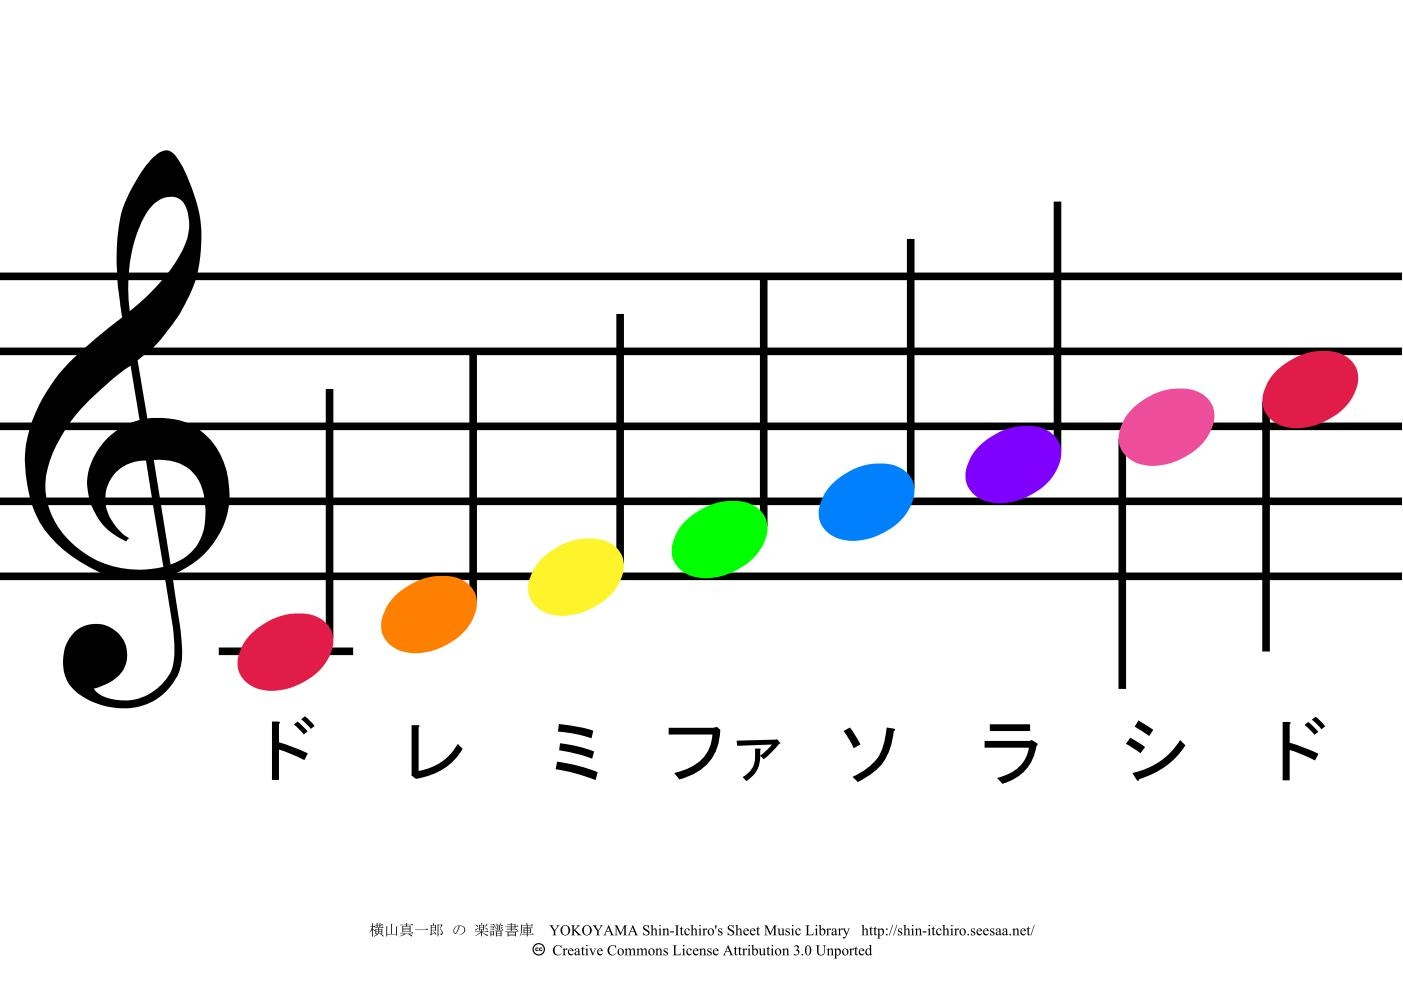
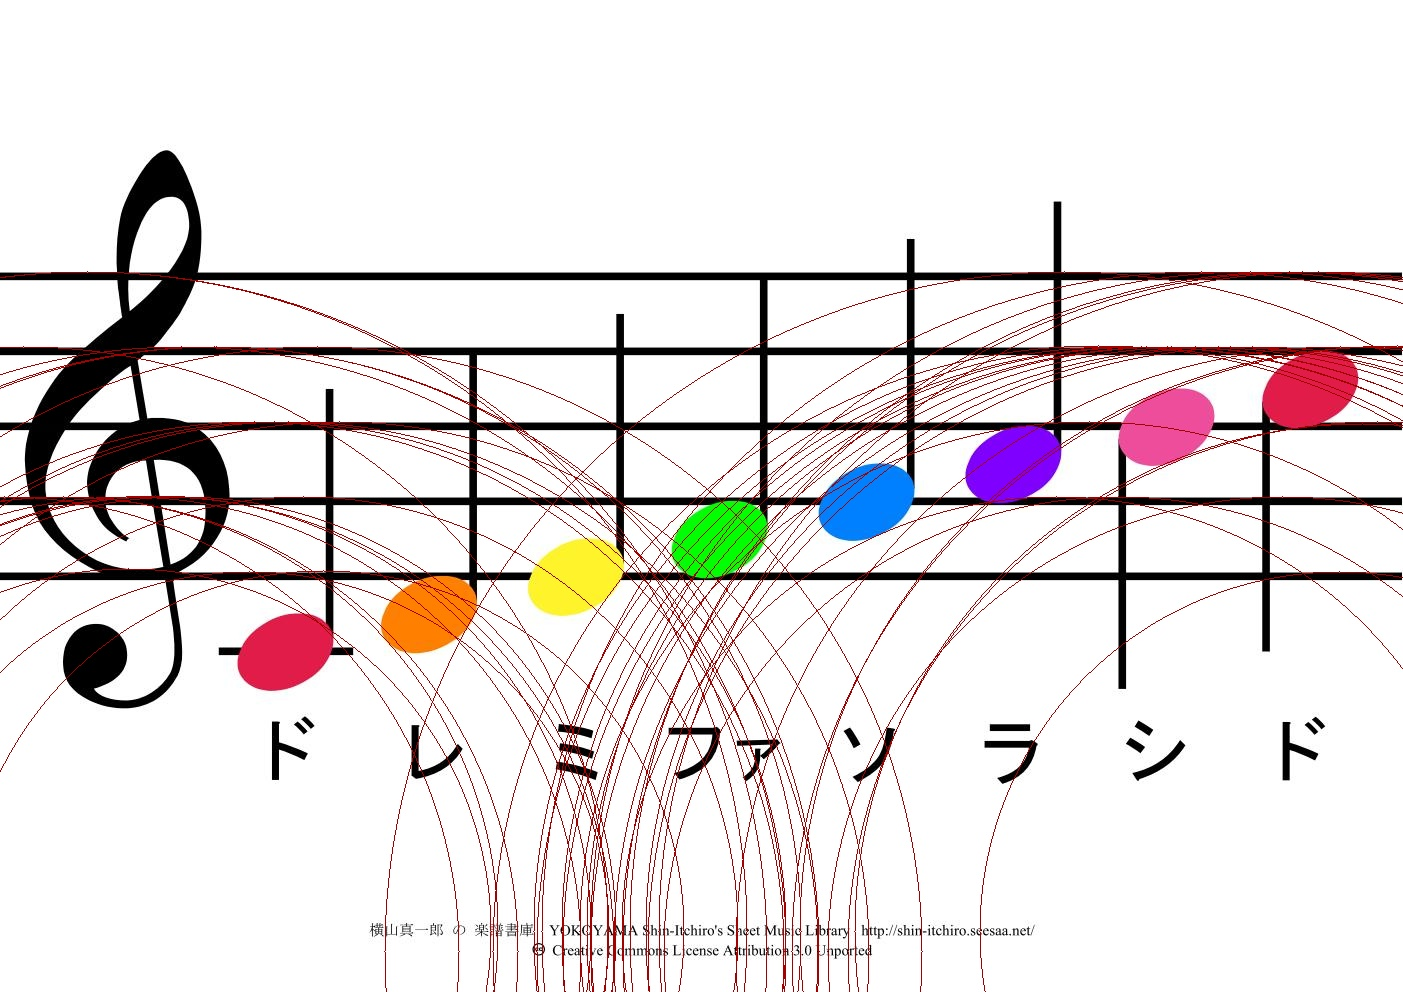
[add] detect circles.

diff --git a/assets/Handlers.py b/assets/Handlers.py
@@ -2,7 +2,6 @@ import cv2
 
 WINDOW_NAME_INPUT = "input"
 WINDOW_NAME_OUTPUT = "output"
-WINDOW_NAME_DEBUG = "debug"
 
 
 class FileHandler:
@@ -24,10 +23,57 @@ class FileHandler:
 
 
 class ManipulateImage:
-    def calc_img_size(src_img):
+    def edge_detection(src_img):
+
+        # image size calculation
         height, width, channels = src_img.shape
         img_size = height * width
         print(img_size)
 
+        # grayscale conversion
         gray_img = cv2.cvtColor(src_img, cv2.COLOR_RGB2GRAY)
-        FileHandler.output_image(WINDOW_NAME_DEBUG, gray_img)
+        # FileHandler.output_image(WINDOW_NAME_DEBUG, gray_img)
+
+        retval, dst = cv2.threshold(gray_img, 190, 255, cv2.THRESH_TOZERO_INV)
+        dst = cv2.bitwise_not(dst)
+        retval, dst = cv2.threshold(dst, 0, 255, cv2.THRESH_BINARY | cv2.THRESH_OTSU)
+        ManipulateImage.circle_detection(src_img, dst)
+
+        # 輪郭抽出
+        cnt, hierarchy = cv2.findContours(dst, cv2.RETR_TREE, cv2.CHAIN_APPROX_SIMPLE)
+        FileHandler.output_image("detect counter", dst)
+
+        # 抽出領域出力
+        dst = cv2.drawContours(dst, cnt, -1, (255, 255, 255, 255), 2, cv2.LINE_AA)
+        FileHandler.output_image("score", dst)
+
+    def circle_detection(src_img, gray_img):
+        circles = cv2.HoughCircles(
+            gray_img,
+            cv2.HOUGH_GRADIENT,
+            dp=1,
+            minDist=20,
+            maxRadius=100
+            param1=100,
+            param2=60,
+        )
+        for c in circles[0, :]:
+            print(c)
+            # 円周を描画する
+            cv2.circle(
+                src_img,
+                (int(c[0]), int(c[1])),
+                int(c[2]),
+                (
+                    0,
+                    0,
+                    165,
+                ),
+            )
+            FileHandler.output_image("detect cirecle", src_img)
+
+    # def five_lines_detection(src_img):
+    #     gray_img = cv2.cvtColor(src_img, cv2.COLOR_RGB2GRAY)
+    #     line_retval, line_dst = cv2.threshold(gray_img, 200, 255, cv2.THRESH_BINARY_INV)
+    #     line_dst = cv2.bitwise_not(line_dst)
+    #     cv2.HoughLinesP()

diff --git a/main.py b/main.py
@@ -11,7 +11,8 @@ class Execute:
         env = self.load_elem()
         src_img = FileHandler.input_image(env["input_img_path"])
 
-        ManipulateImage.calc_img_size(src_img)
+        ManipulateImage.edge_detection(src_img)
+        # ManipulateImage.five_lines_detection(src_img)
 
         FileHandler.disp_halt()
         FileHandler.save_to_image(env["output_img_path"], src_img)
